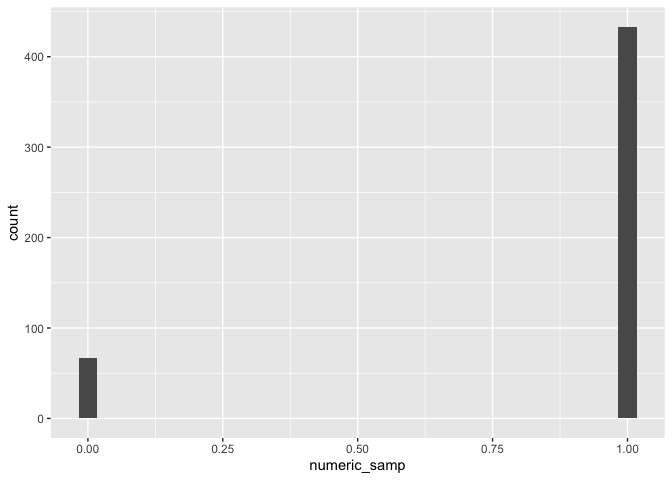
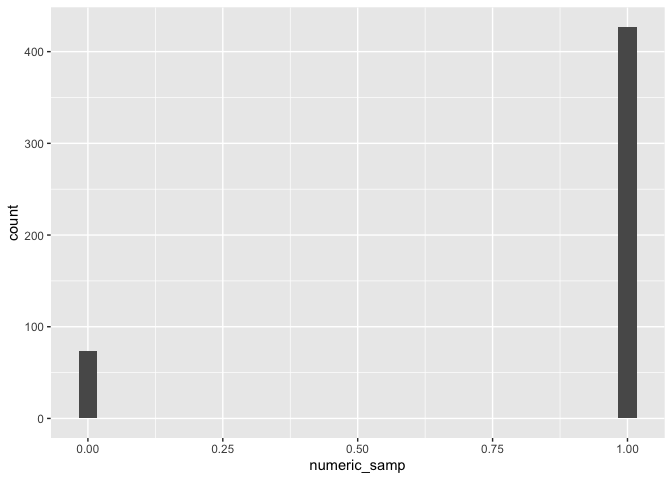
commit

diff --git a/Practice---Building-Blocks.md b/Practice---Building-Blocks.md
@@ -12,12 +12,12 @@ giving the median value rounded to two decimal places.
 
 ![](Practice---Building-Blocks_files/figure-gfm/unnamed-chunk-1-1.png)<!-- -->
 
-The median of the variable containing absolute value is 1.05.
+The median of the variable containing absolute value is 1.02.
 
 **Learning assessment:** After the previous code chunk, write a bullet
 list given the mean, median, and standard deviation of the original
 random sample.
 
-- The mean of the random sample is: 1.0317565.
-- The median of the random sample is: 1.0496895.
-- The standard deviation of the random sample is: 0.987799.
+- The mean of the random sample is: 1.049446.
+- The median of the random sample is: 1.0164267.
+- The standard deviation of the random sample is: 0.9706557.
